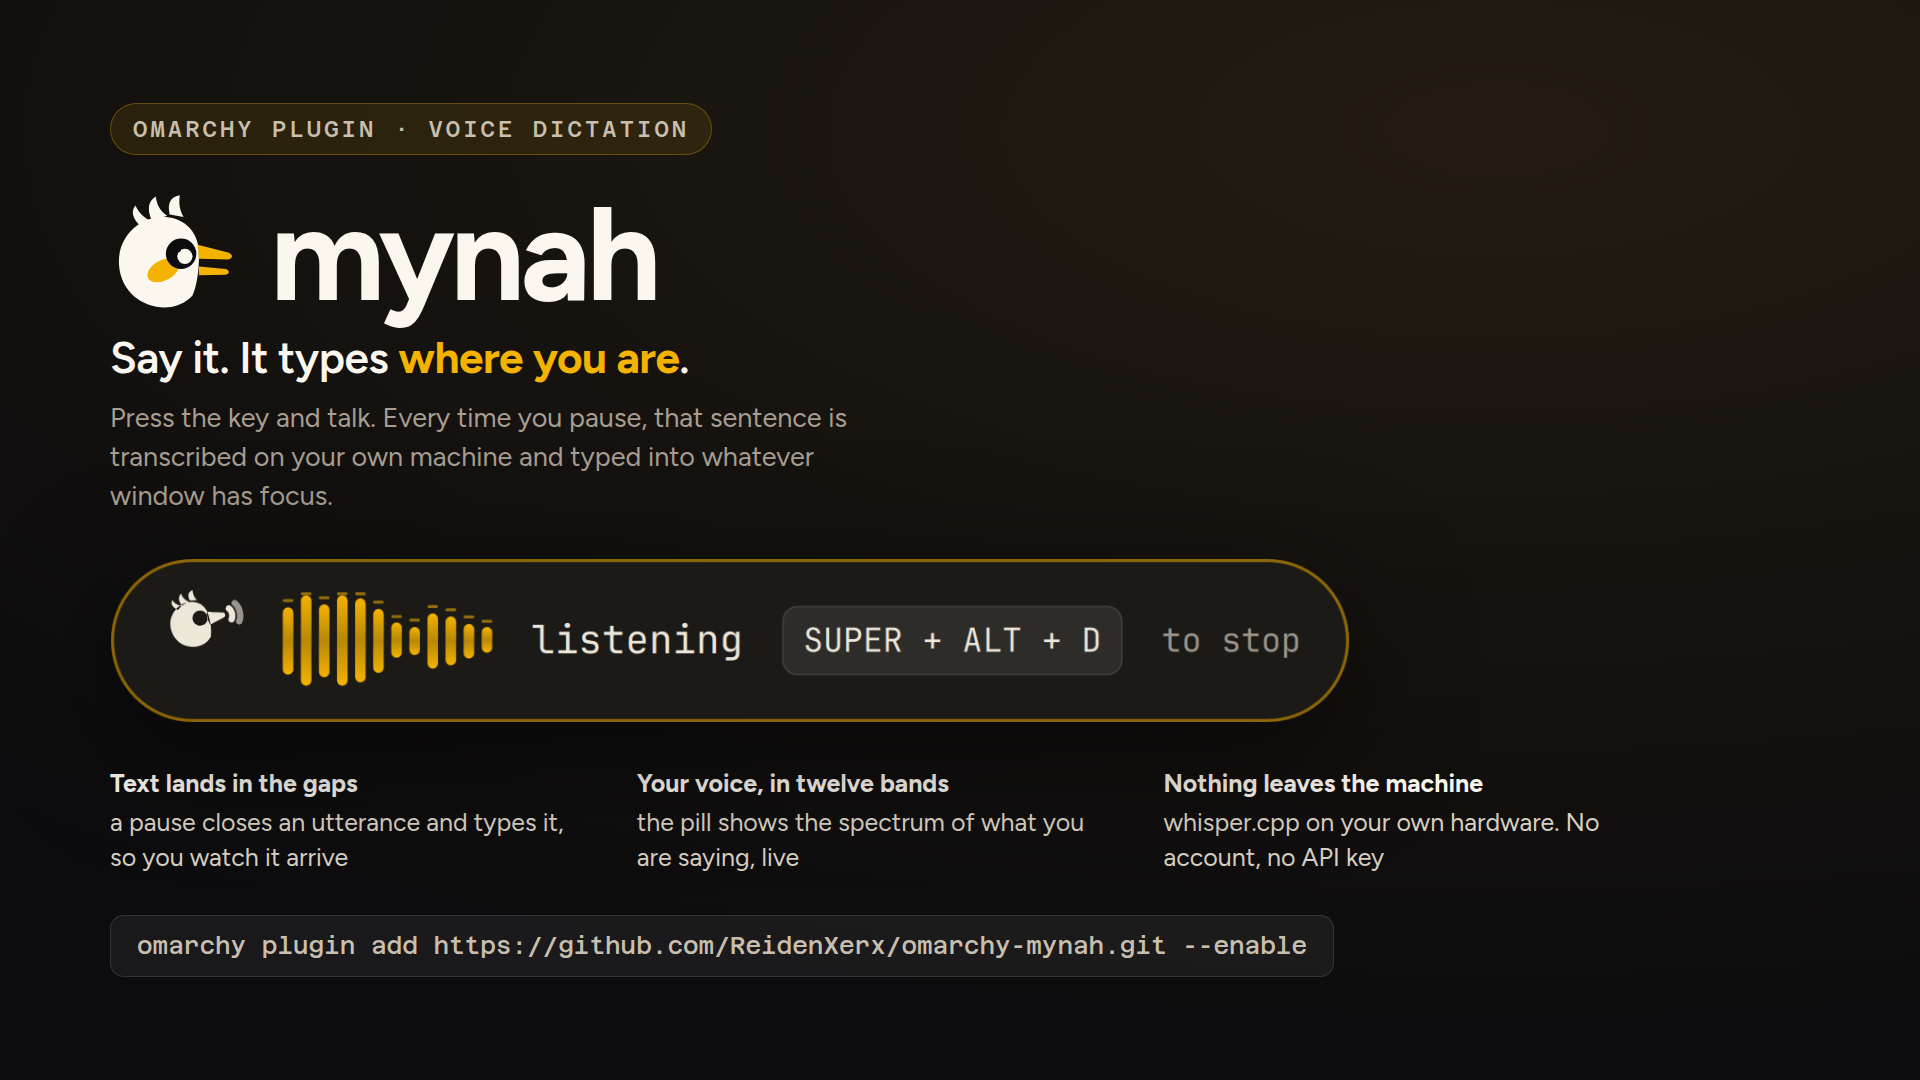
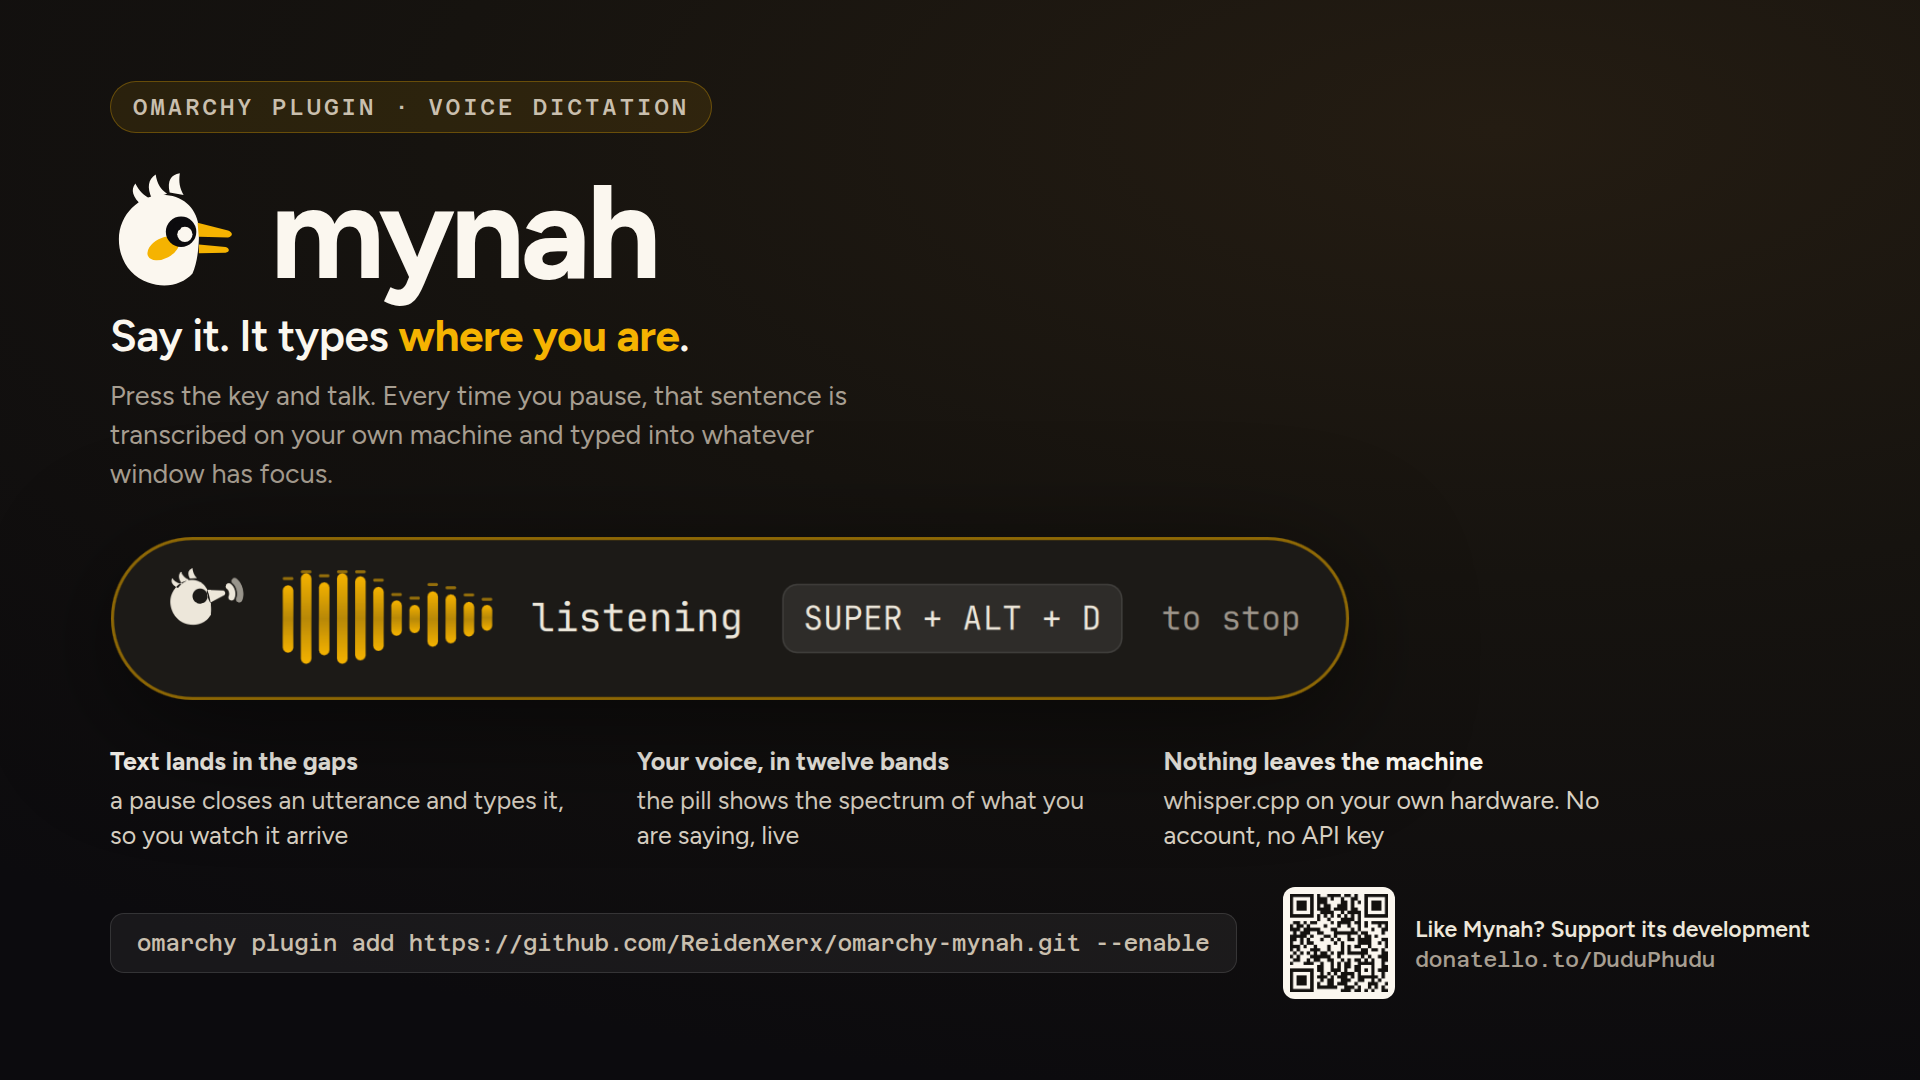
Support link, on the README and the card
Every new plugin starts with both: a Support section in the README and
the QR block on the preview card. The QR is zbarimg-verified against the
rendered PNG, not just against the tile.

Claude-Session: https://claude.ai/code/session_019yo64P8KJNrR6aGx5oYCTz

diff --git a/README.md b/README.md
@@ -109,6 +109,11 @@ for the machine, and check with `mynah set model=base`.
 - The pill shows the last sentence for four seconds and then forgets it. The plugin keeps no
   history.
 
+## Support
+
+If Mynah saves you typing, you can put something toward the next one:
+**[donatello.to/DuduPhudu](https://donatello.to/DuduPhudu)**.
+
 ## Licence
 
 MIT. The bird is Mynah's mark.
